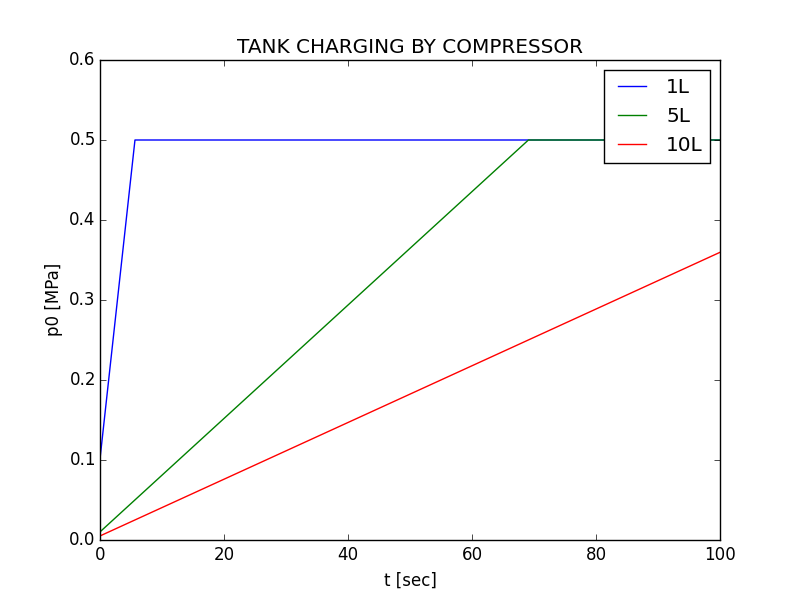
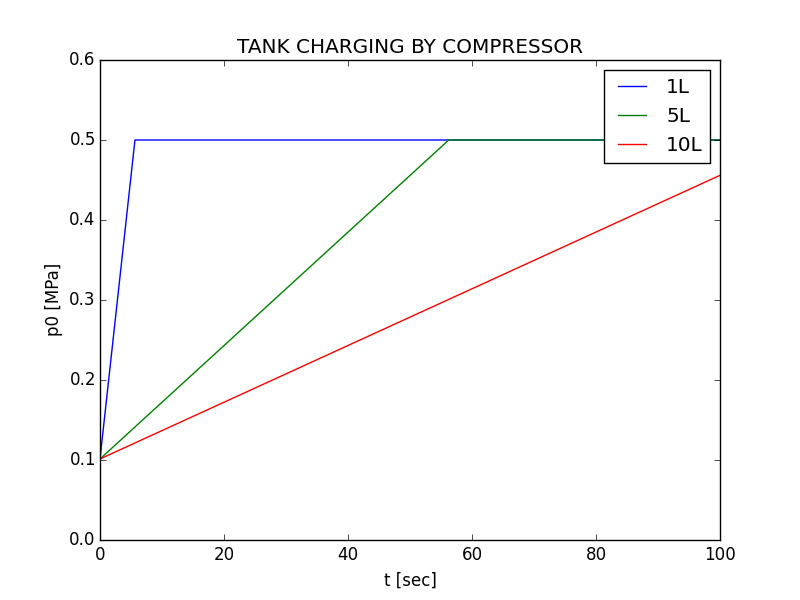
failed: do simulation just by adding pressure
Failed because I did not count the mass flow discharging from tank
The mass flow should be considered when calculating tank pressure by gas
equation

diff --git a/result1.py b/result1.py
@@ -1,0 +1,55 @@
+#!/usr/bin/env python
+#-*- coding:utf-8 -*-
+
+#*** TANK PRESSURE SIMULATION ***
+#*** AUTHOR: SHOHEI AOKI ********
+#*** PROGRAMMED: 22 JUL 2015 ****
+
+from pylab import *
+
+##### PARAMETER AREA ############
+gamma = 1.4
+de = 2 #[mm]
+Ae = pi*(de*0.001/2)*(de*0.001/2)#[m2]
+T0i = (24 + 273.15) # Room temperature
+R = 289 # J/(kg dot K)
+V = 1/1000.0 #1L as [m3]
+sigma = sqrt(gamma*((2/(gamma+1))**((gamma+1)/(gamma-1)))) # critical flow efficient
+
+##### PARAMETER AREA ############
+M = 32 * 0.8 + 14 * 0.2 # O2: 80%, N2: 20%
+R0 = 8.314 #(J/mol dot K)
+T0 = 24 + 273.15 #[K}
+pa = 0.1013*(10**6) #[Pa]: Atmospheric pressure
+R_g = R0/M
+DISCHARGE_AIR = 42 #[l/min], ref:http://www.airbrush.co.jp/shop/products/detail.php?product_id=1296
+dVs1 = DISCHARGE_AIR*0.001/60 #[m3/s]
+V = 1/1000.0 #[m3]: tank volume, 1L
+pi = pa
+dmt = ((pa*dVs1)/(R_g*T0))       # [kg/s]: mass flow rate at atmospheric pressure 
+
+
+##### SIMULATION FOR AIR DISCHARGE FROM TANK ##
+t = arange(0.01,100,0.01) # 100 sec 
+p0i = 0.1013*5*(10**6) # 5[MPa]
+V_array = [1/1000.0,10/1000.0,20/1000.0]
+for V in V_array:
+    # charge
+    mi = (pi*V)/(R_g*T0)
+    p0c = (((R_g* T0)/V) * (mi + dmt*t)) * (10**-6) #[MPa]
+    p0c = [p if p < 0.5 else 0.5 for p in p0c]  # Max 5[MPa]
+    # discharge
+    p0d =( (1 + (((gamma - 1)/2)*(Ae*sigma*sqrt(R * T0i))/V)*t)**((-1)*2*gamma/(gamma-1))*p0i ) * (10**-6)
+    # total pressure
+    p0 = p0c + p0d
+    plot(t,p0)
+
+        
+##### VISUALIZATION AREA #########
+title('TANK PRESSURE TRANSITION BY AIR DISCHARGE')
+legend(('1L','10L','20L'),'upper right')
+xlabel('t [sec]')
+ylabel('p0 [MPa]')
+savefig('./image/result-1.png')
+show()
+

diff --git a/charge.py b/charge.py
@@ -18,13 +18,13 @@ DISCHARGE_AIR = 42 #[l/min], ref:http://www.airbrush.co.jp/shop/products/detail.
 dVs1 = DISCHARGE_AIR*0.001/60 #[m3/s]
 V = 1/1000.0 #[m3]: tank volume, 1L
 pi = pa
-mi = (pi*V)/(R*T0)
 
 ##### SIMULATION TO CHARGE TANK ##
 t = arange(0.01,100,0.01) # 10 sec 
 dmt = ((pa*dVs1)/(R*T0))       # [kg/s]: mass flow rate at atmospheric pressure 
 V_array = [1/1000.0, 10/1000.0, 20/1000.0]
 for V in V_array:
+    mi = (pi*V)/(R*T0)
     p0 = (((R* T0)/V) * (mi + dmt*t)) * (10**-6) #[MPa]
     p0 = [p if p < 0.5 else 0.5 for p in p0]  # Max 5[MPa]
     plot(t,p0)
